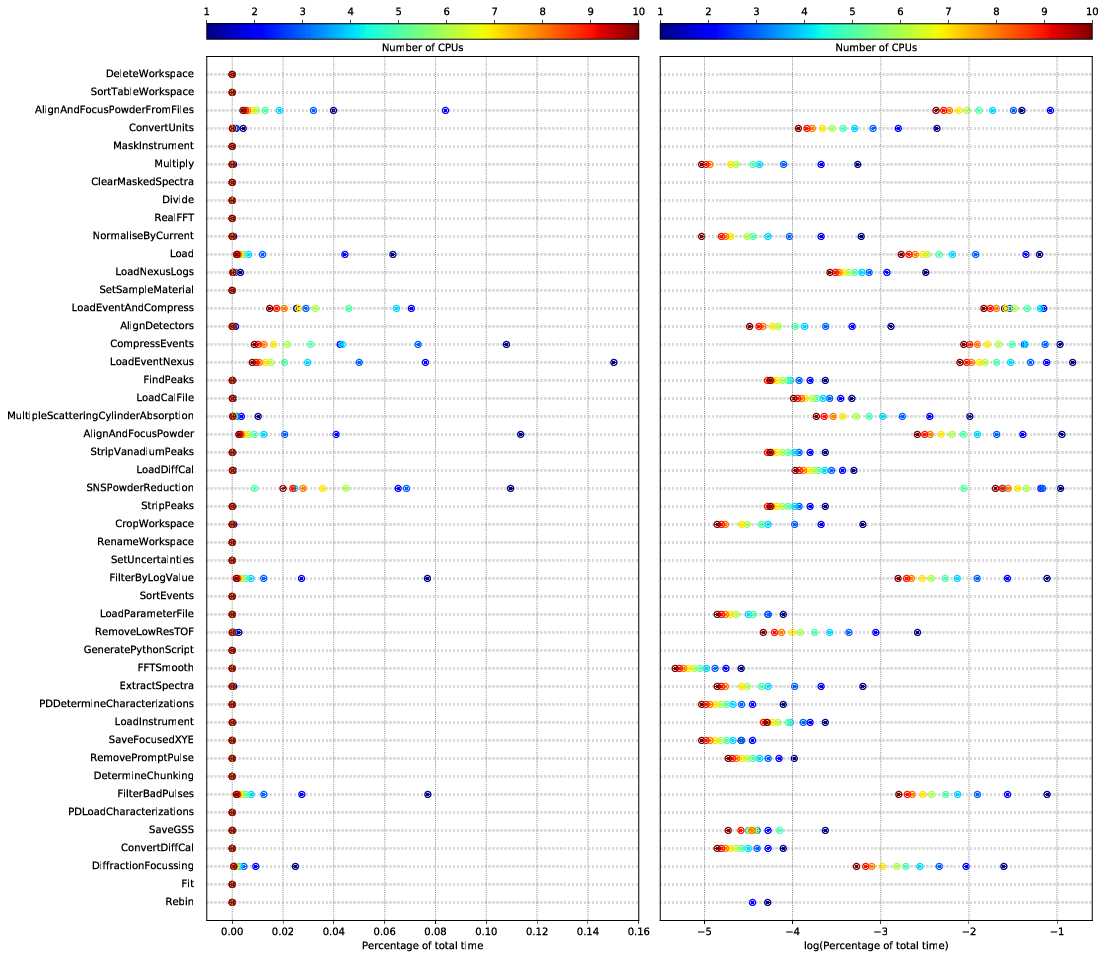
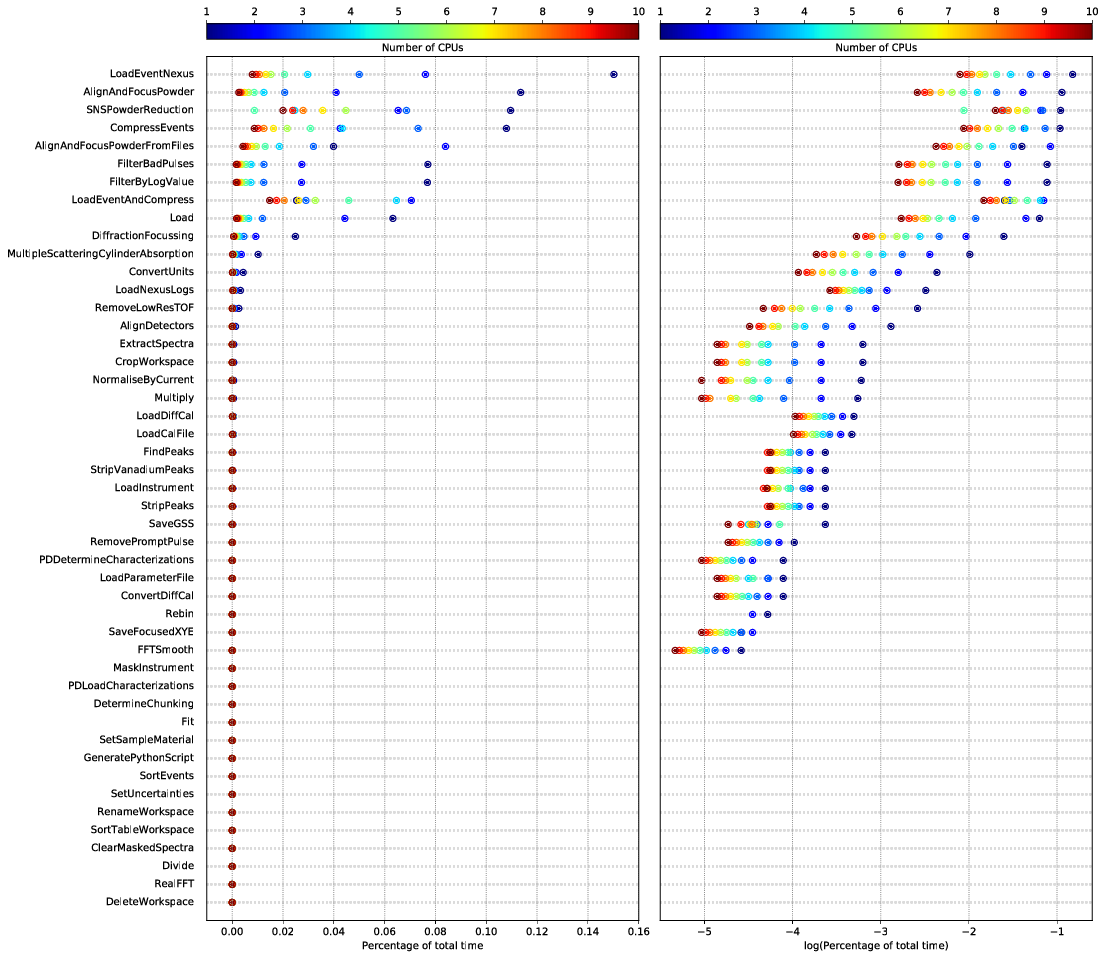
sort timings in descending order

diff --git a/benchmarks/plot_SNSPowderReduction_bench.py b/benchmarks/plot_SNSPowderReduction_bench.py
@@ -215,18 +215,37 @@ xmax1 = 0.16
 xmin2 = -5.5
 xmax2 = -0.6
 
-cc = 0
+names = []
+
+# Perform sorting according to maximum time
+max_times = []
 for j in range(ny):
-    if (j != itot) and (j != 0) :
+
+      max_times.append(np.amax(time_data[:,j]/time_data[:,itot]))
+      #print header[j]
+      names.append(header[j])
+#print max_times,len(max_times),ny
+sort = np.argsort(max_times)
+
+#print sort
+#print names
+
+
+cc = 0
+for j in sort:
+    print j,names[j]
+    if (names[j] != "Total") and (names[j] != "NCPU"):
         cc += 1
-        ax1.text(-0.015,cc,header[j],ha='right',va='center')
+        ax1.text(-0.015,cc,names[j],ha='right',va='center')
     for i in range(nx):
-        if (j != itot) and (j != 0) :
+        if (names[j] != "Total") and (names[j] != "NCPU"):
             list_x.append(time_data[i,j]/time_data[i,itot])
             list_y.append(cc)
             list_z.append(i+1)
             ax1.plot([xmin1,xmax1],[cc,cc],color='lightgray',ls='dotted',zorder=-10)
             ax2.plot([xmin2,xmax2],[cc,cc],color='lightgray',ls='dotted',zorder=-10)
+
+
 
 s9 = ax1.scatter(list_x,list_y,c=list_z,cmap='jet')
 ax1.set_xlabel("Percentage of total time")
